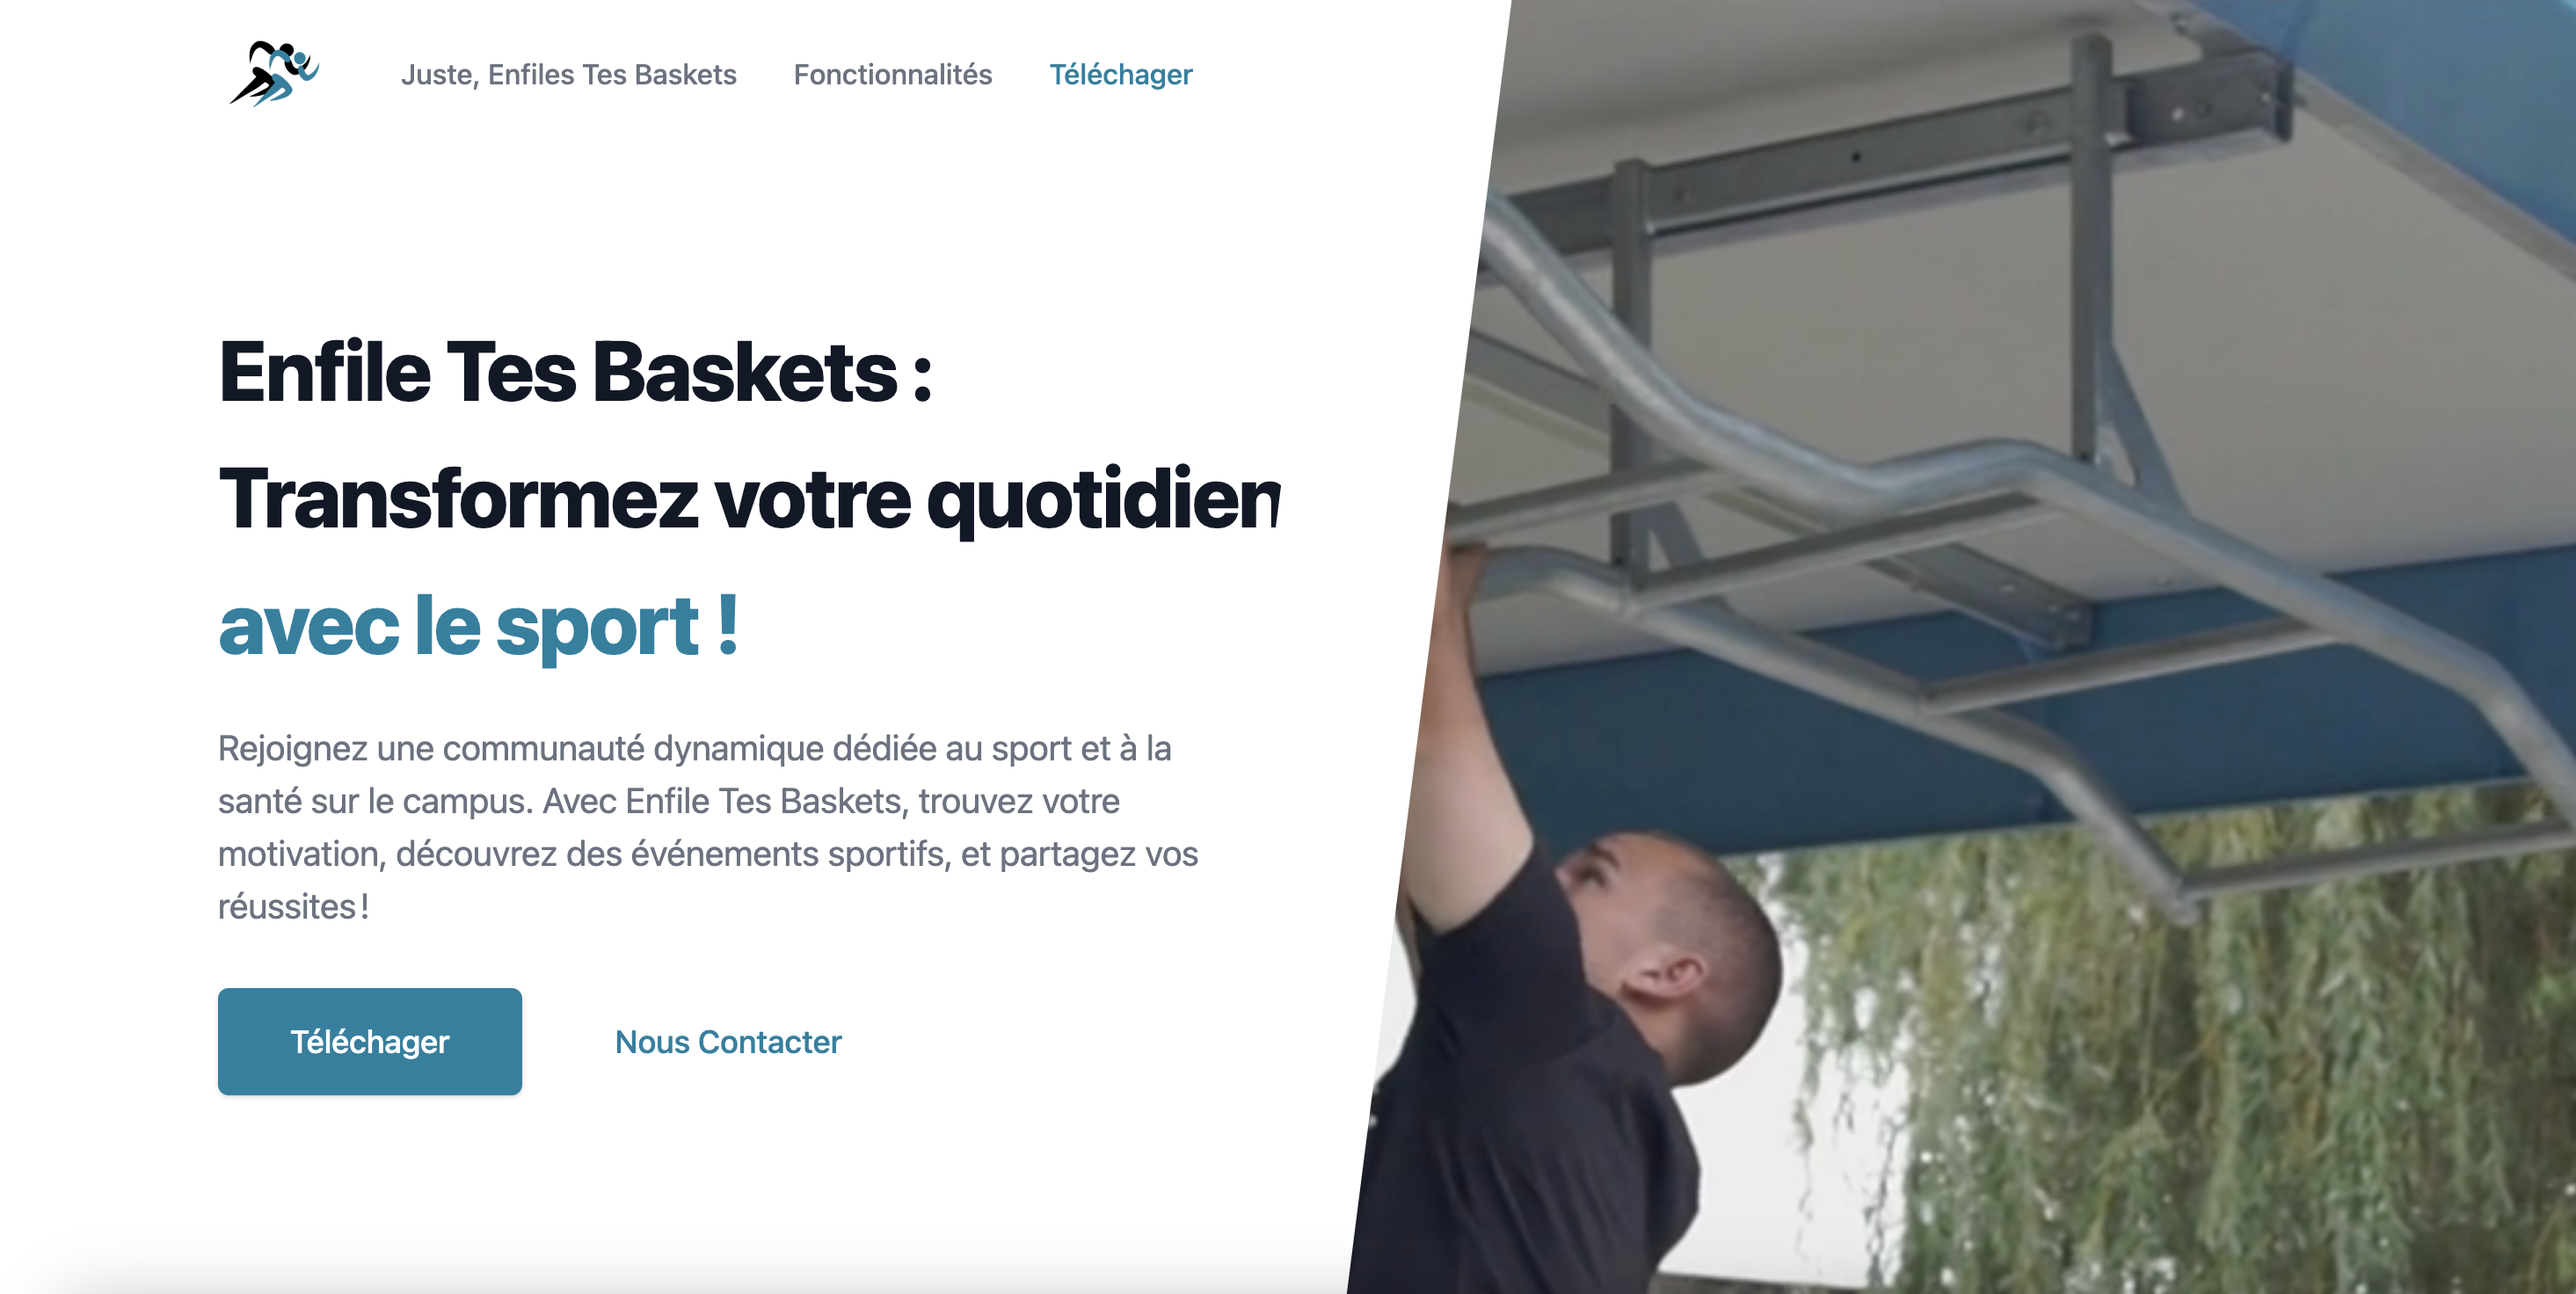
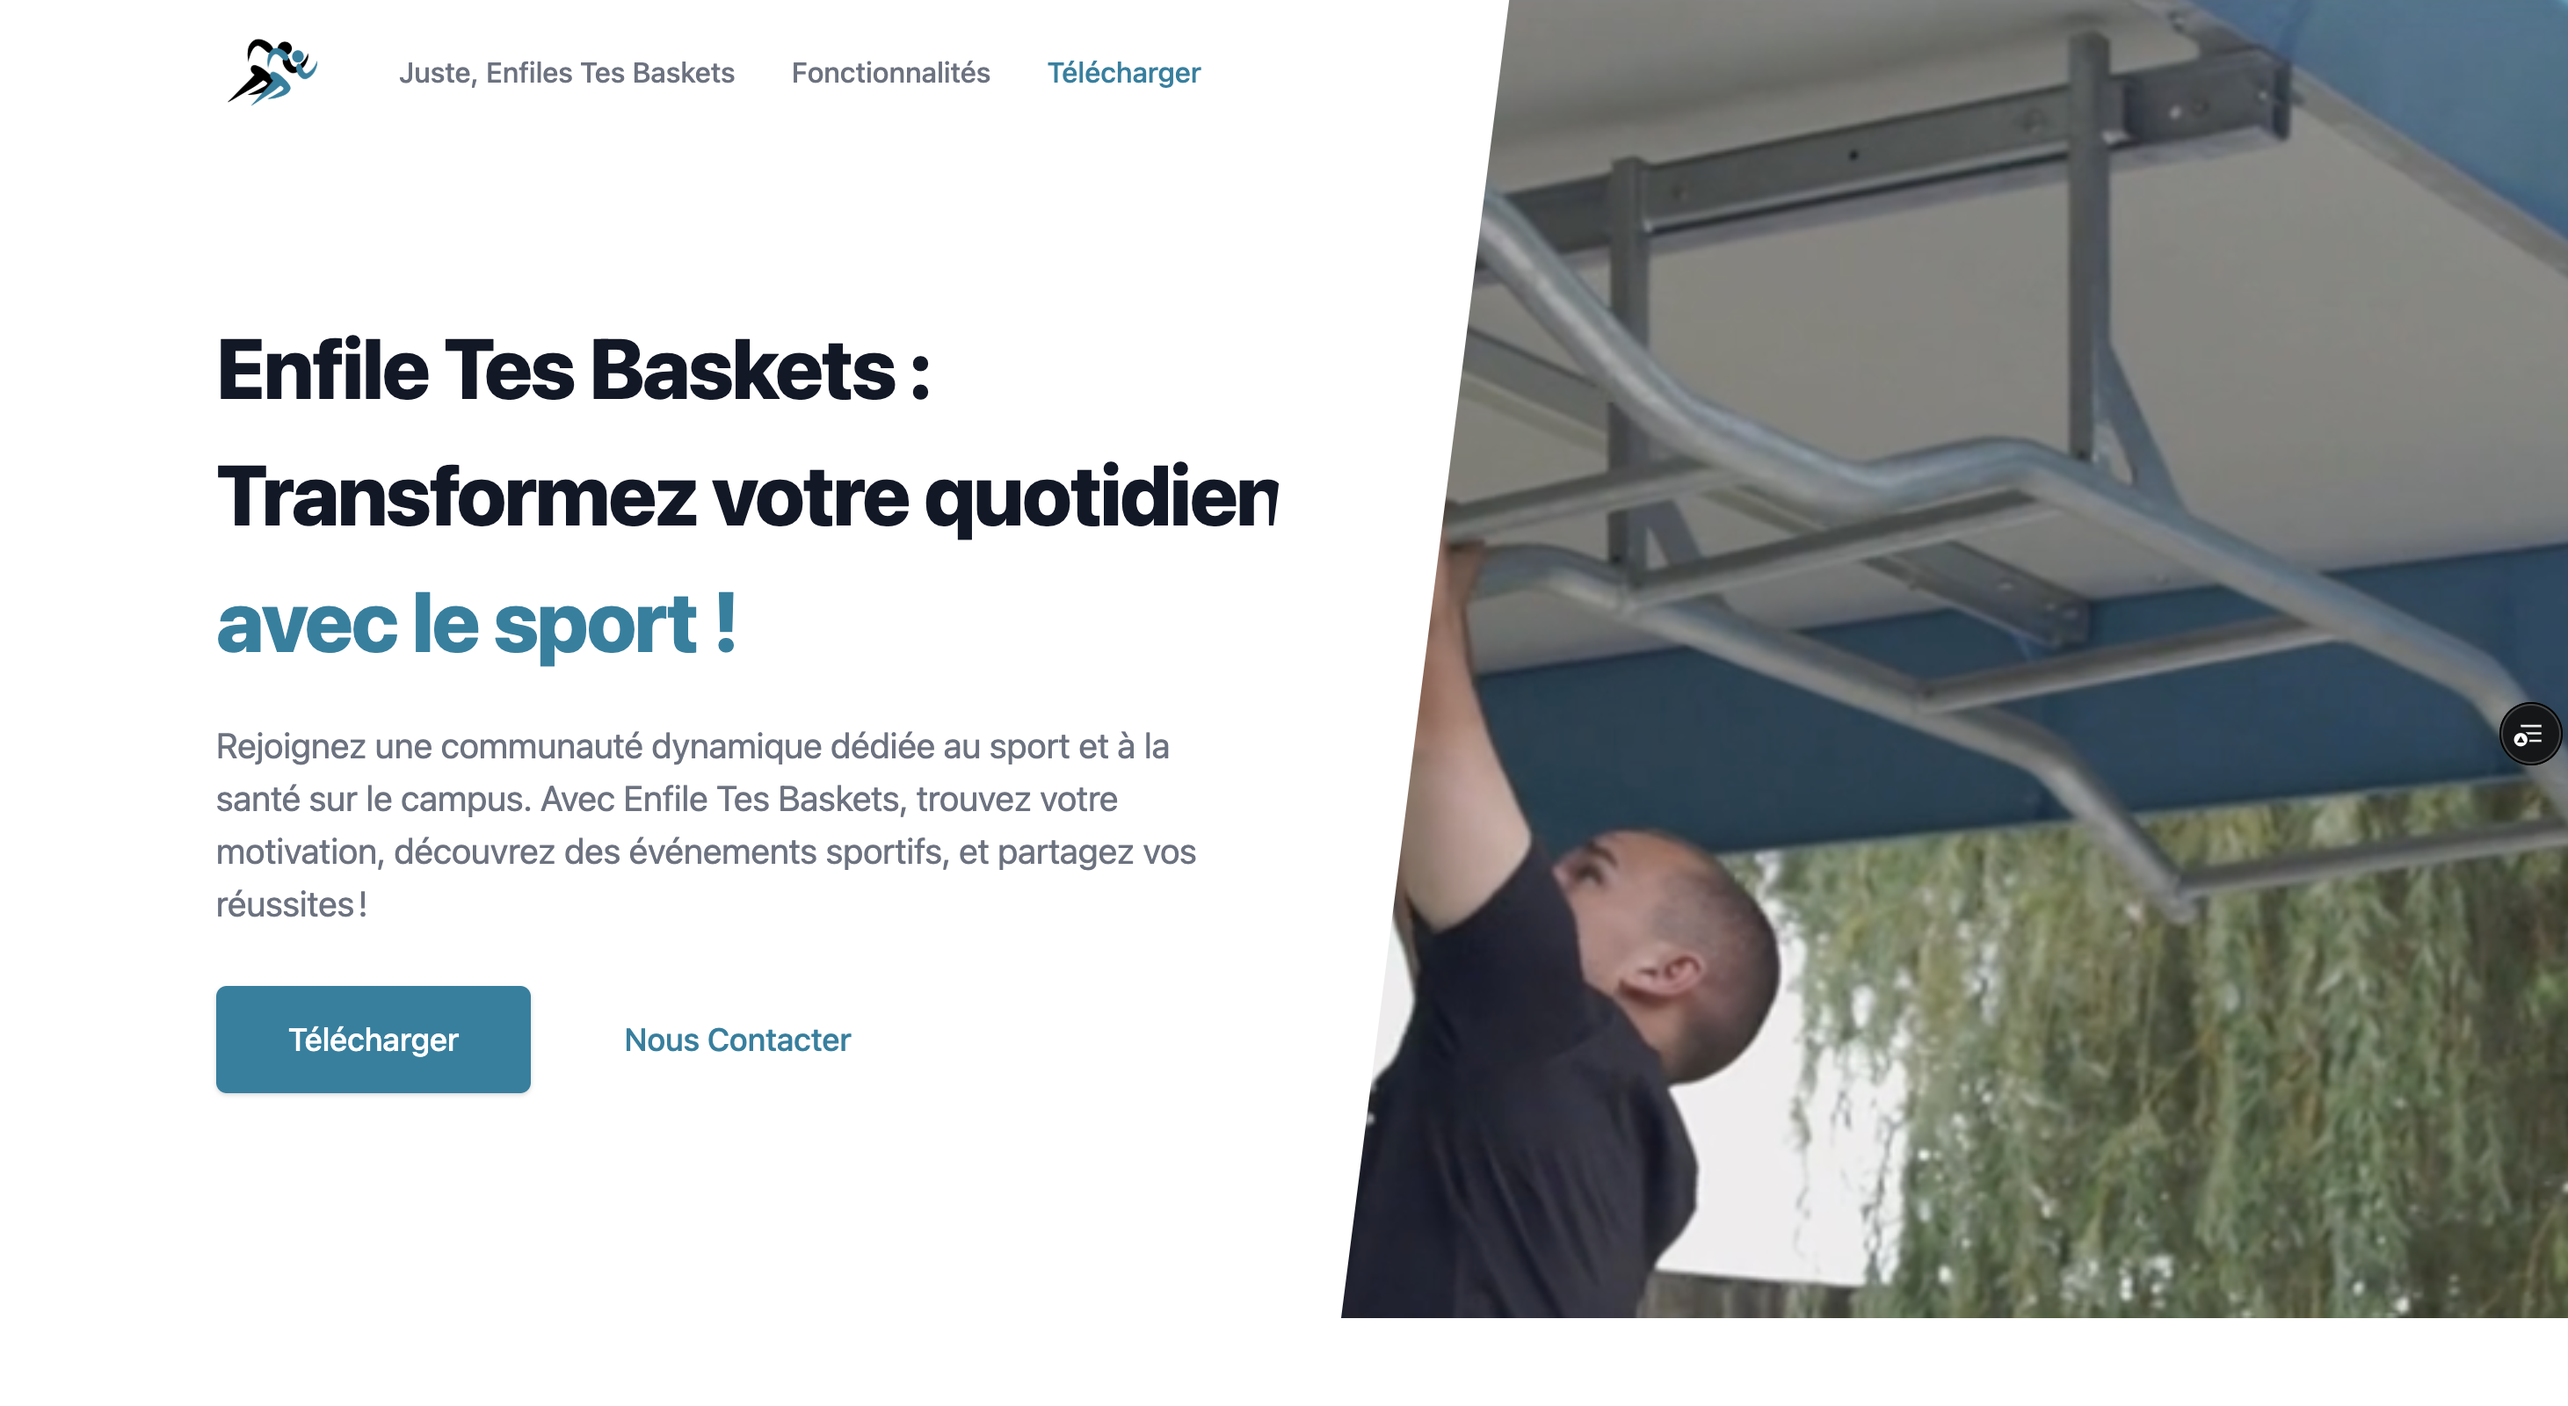
feat: update download link url for apk in env var; update readme

diff --git a/frontend/web/mobile-app-landing-page/src/components/MainHero.tsx b/frontend/web/mobile-app-landing-page/src/components/MainHero.tsx
@@ -4,6 +4,8 @@ import config from '../config/index.json';
 
 const MainHero = () => {
   const { mainHero } = config;
+
+  const apkDownloadUrl = process.env.NEXT_PUBLIC_APK_DOWNLOAD_URL;
   return (
     <main className="mt-10 mx-auto max-w-7xl px-4 sm:mt-12 sm:px-6 md:mt-16 lg:mt-20 lg:px-8 xl:mt-28">
       <div className="sm:text-center lg:text-left">
@@ -20,12 +22,12 @@ const MainHero = () => {
           <div className="rounded-md shadow">
             <a
               className={`w-full flex items-center justify-center px-8 py-3 border border-transparent text-base font-medium rounded-md text-background bg-primary hover:bg-border hover:text-primary md:py-4 md:text-lg md:px-10`}
-              href={mainHero.primaryAction.href} // Le lien vers le fichier APK
-              download={
-                mainHero.primaryAction.isDownloadable ? 'etb.apk' : false
-              } // Téléchargement si disponible
+              href={apkDownloadUrl ?? mainHero.primaryAction.href} // Le lien vers le fichier APK
+              // download={
+              //   mainHero.primaryAction.isDownloadable ? 'etb.apk' : false
+              // } // Téléchargement si disponible
               onClick={(e) => {
-                if (mainHero.primaryAction.href === '#') {
+                if (!apkDownloadUrl) {
                   e.preventDefault(); // Empêche l'action par défaut
                   alert('Pas encore disponible !');
                 }

diff --git a/frontend/web/mobile-app-landing-page/src/components/Header.tsx b/frontend/web/mobile-app-landing-page/src/components/Header.tsx
@@ -10,6 +10,8 @@ const Menu = () => {
   const { navigation, company, callToAction } = config;
   const { name: companyName, logo } = company;
 
+  const apkDownloadUrl = process.env.NEXT_PUBLIC_APK_DOWNLOAD_URL;
+
   return (
     <>
       <svg
@@ -60,12 +62,12 @@ const Menu = () => {
               ))}
               <a
                 className={`font-medium text-primary hover:text-secondary`}
-                href={callToAction.href} // Le lien vers ton fichier APK
-                download={
-                  callToAction.isDownloadable ? 'MonApplication.apk' : false
-                } // Téléchargement si disponible
+                href={apkDownloadUrl ?? callToAction.href} // Le lien vers ton fichier APK
+                // download={
+                //   callToAction.isDownloadable ? 'MonApplication.apk' : false
+                // } // Téléchargement si disponible
                 onClick={(e) => {
-                  if (callToAction.href === '#') {
+                  if (!apkDownloadUrl) {
                     e.preventDefault(); // Empêche l'action par défaut
                     alert('Pas encore disponible !');
                   }

diff --git a/frontend/web/mobile-app-landing-page/README.md b/frontend/web/mobile-app-landing-page/README.md
@@ -1,13 +1,18 @@
 # Enfiles Tes Baskets : landing page
 
-### Aperçu 
+### 🎆 Aperçu 
+
+🔴 [prod] https://enfile-tes-baskets.vercel.app/
+
 ![alt text](readme-images/landing-page-overview.png)
 
-### Description
+### 📄 Description
 
 Ce projet constitue le landing page de l'application mobile `Enfile Tes Baskets`. C'est un site web qui présente l'application dans sa globalité et propose le téléchargement de son `apk`, si ce dernier est disponible.
 
-### Technos et fonctionnalités
+L'`apk` peut être stocké n'importe où (comme `Gooogle Drive`) tant qu'il y a une `url` qui permet d'y accéder et de le télécharger.
+
+### 🧰 Technos
 
 - 📱  Responsive design
 - 🔥 [Next.js](https://nextjs.org) qui est un framework `React`, donc ça reste du React
@@ -24,7 +29,11 @@ Ce projet constitue le landing page de l'application mobile `Enfile Tes Baskets`
 
 - 🖱 Déploiement en un seul clic avec Vercel ou Netlify (ou déploiement manuel pour les autres services d'herbergement)
 
-### Run
+### ⚙ Run
+
+#### 0. Variable d'environnement
+
+Ne pas oublier de mettre à jour la variable d'environnement `NEXT_PUBLIC_APK_DOWNLOAD_URL` dans le fichier `.env` pour le lien l'apk (si disponible) qui aura la possibilité d'être téléchargé.
 
 #### 1. Lancer le projet
 - Installer les dépendances
